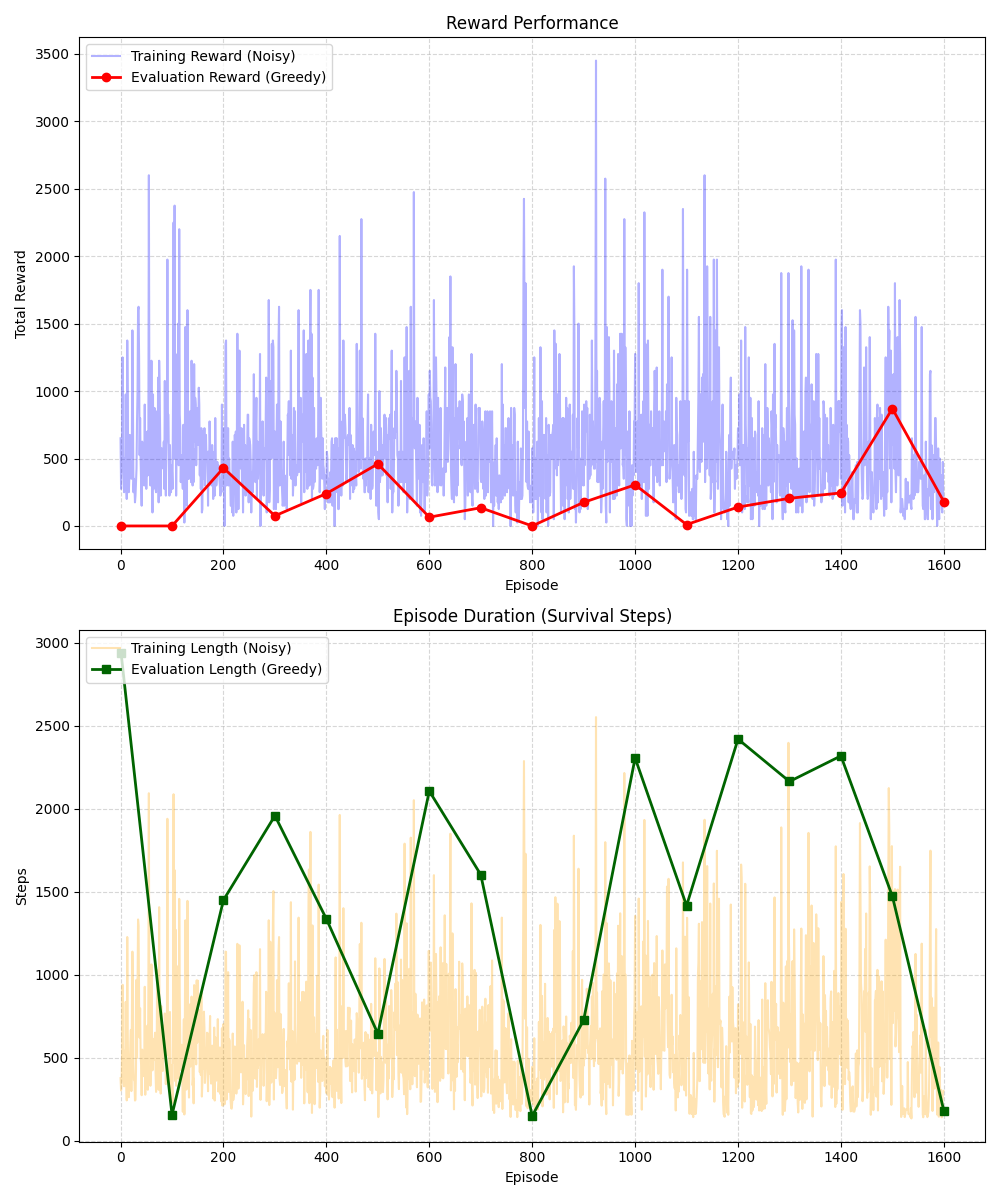
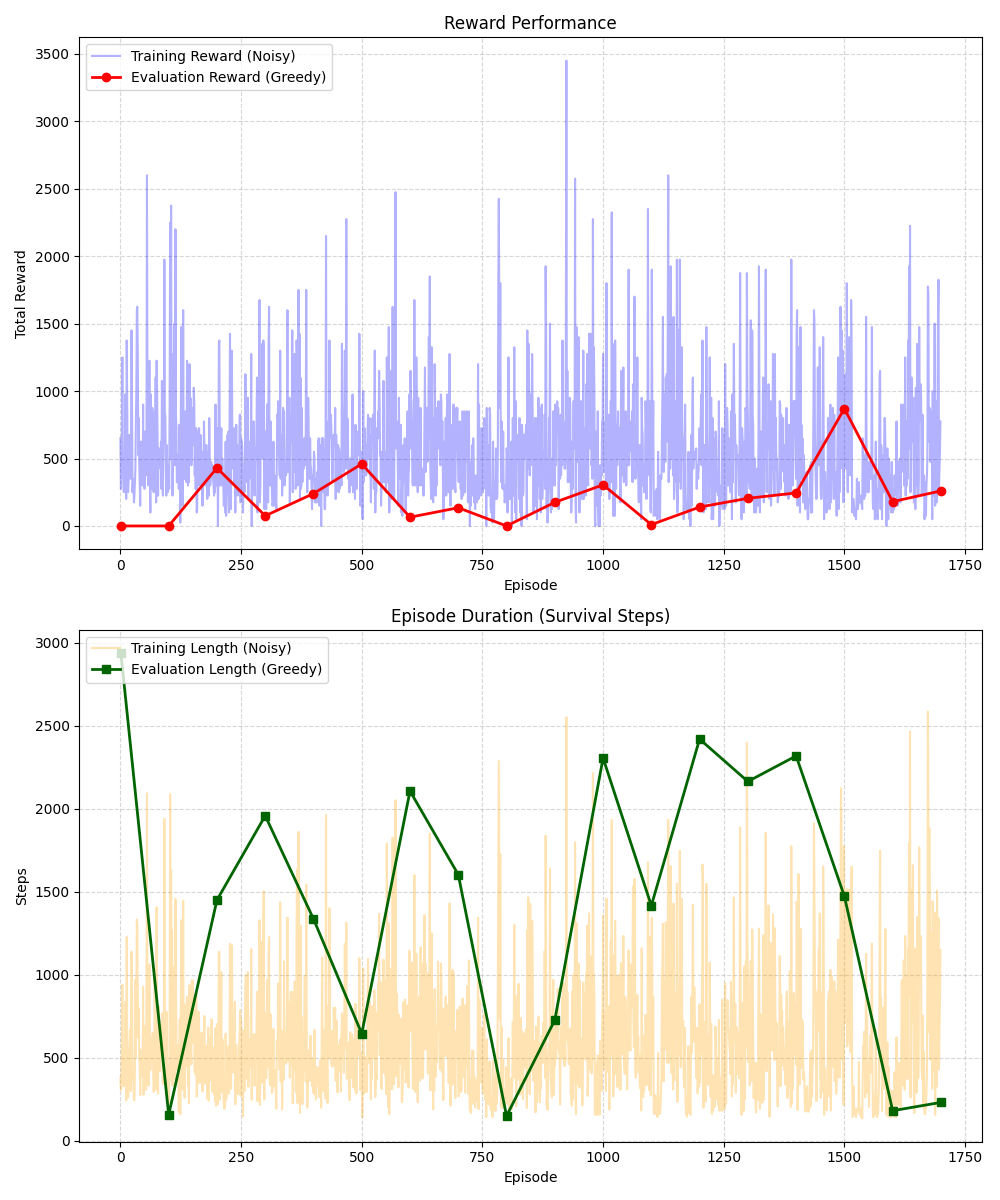
変更push

diff --git a/src/wrapper.py b/src/wrapper.py
@@ -27,7 +27,7 @@ class MaxPoolWrapper(gym.ObservationWrapper):
     
 class FrameSkipMaxPoolWrapper(gym.Wrapper):
     """
-    FrameSkip(with Max Pool for last 2 frames)
+    FrameSkip + MaxPool。返すのは最後のフレームではなく、最後の2フレのMaxPool
     envのframeskipと併用しないこと。
     """
     def __init__(self, env, skip=4):

diff --git a/src/dqn_max.py b/src/dqn_max.py
@@ -116,7 +116,7 @@ for episode in tqdm(range(episode_num)):
     obs, info = env.reset()
     episode_over = False
     t = 0
-    noop_step = np.random.randint(0, 31)
+    noop_step = np.random.randint(0, 8)
     while not episode_over:
         if t < noop_step:
             action = 0

diff --git a/records/experiments_memo_summary.md b/records/experiments_memo_summary.md
@@ -32,3 +32,8 @@
 ### `v4`（2026-02-23 00:22:13）
 
 > モデルが見ている画像を受け、2フレームのmaxを行い、敵の点滅を回避
+> プレイコードを追加。不可視の玉問題も発覚。
+
+> やっぱ2フレームmax辞めて、frameskipを時前実装し、最後の2フレームだけmaxして返すようにしてflickを無視
+> 最初のランダム行動も32までになるように修正
+> スコアが[-1, 1]から[-4, 4]になった
